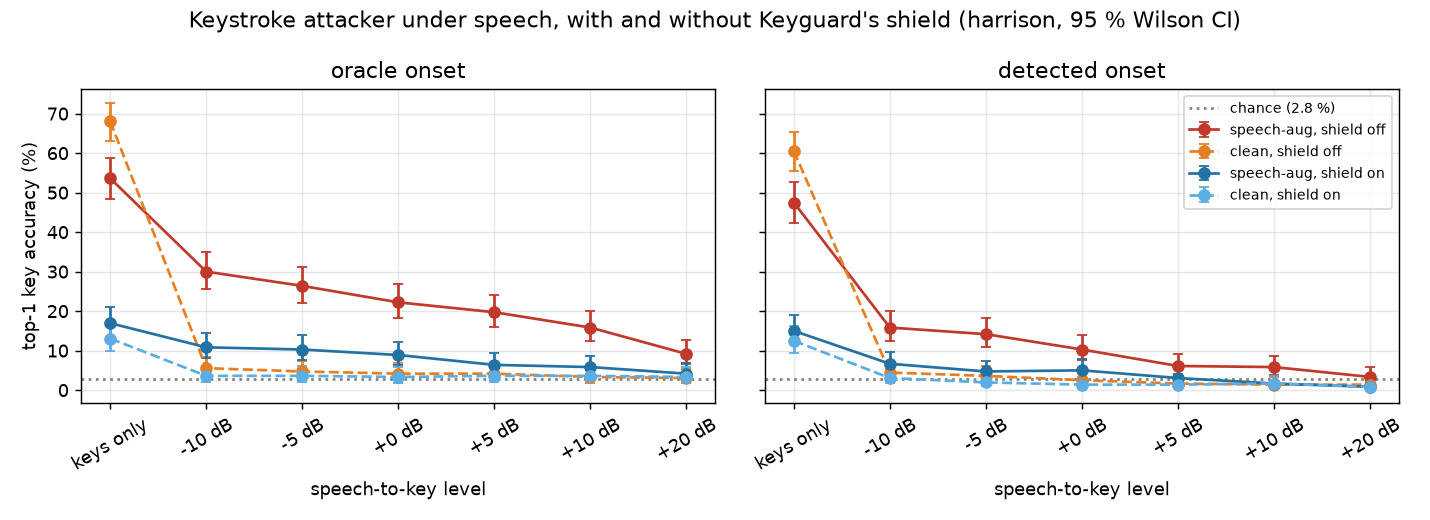
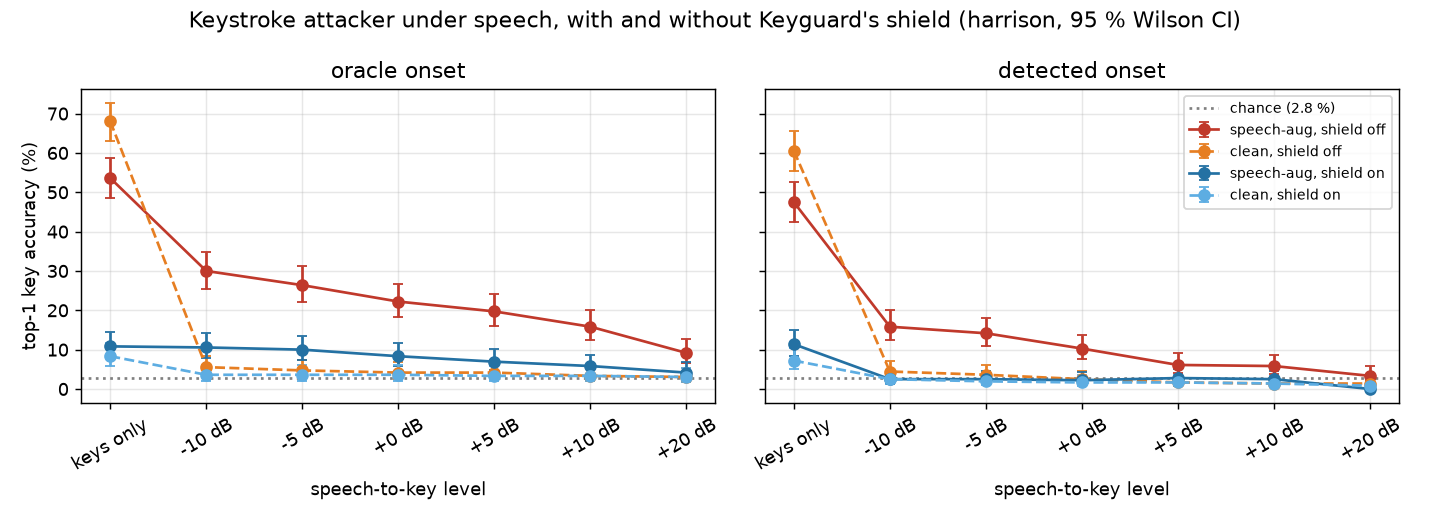
WP7: headline shield = ShieldConfig(key_frames=26), as CallGuard ships it
- Re-run with the 26-frame shield (press + release); key_frames=14 kept as a
  secondary row at keys only and +10 dB. STOI/PESQ and the Hearsay check use 26.
- Report: 26 vs 14 comparison, selection-effect note, demo framing (oracle onsets),
  noise-floor issue for the teammate. Verdicts: C1 pass oracle / fail detected;
  C2 marginal fail (top-1 5.8 % oracle, STOI 0.897); C3 pass at 2/100.

diff --git a/experiments/attack_under_speech.py b/experiments/attack_under_speech.py
@@ -3,7 +3,7 @@
 Hearsay showed keystrokes don't break voice detection. This is the reverse direction: with someone talking over the
 typing, is keystroke leakage still a threat on a call? If yes, the shield has something real to defend against.
 
-Protocol (fixed seeds, CPU, 8 threads, ~11 min):
+Protocol (fixed seeds, CPU, 8 threads, ~12 min):
 - Keys: Keyguard's harrison bank (36 keys x 25 presses, one MacBook), per-key 60/40 split.
 - Attackers: KeyNet + torch_logmel trained here (provisional, in-domain). `clean` on clean presses; `speech-aug`
   on presses mixed with speech at +0..+20 dB (the adaptive attacker, which knows calls have speech).
@@ -11,7 +11,8 @@ Protocol (fixed seeds, CPU, 8 threads, ~11 min):
   attacker's training noise and the evaluation mixtures.
 - Each test press sits at a random spot in a 1.5 s speech excerpt at a speech-to-key power ratio (speech excerpt
   power over key-window power). Attack with the oracle onset and with Keyguard's onset detector on the mixture.
-- Shield: Keyguard DSP Shield with ShieldConfig() defaults (as CallGuard ships it) given the true onset (the victim has OS key events).
+- Shield: Keyguard DSP Shield with ShieldConfig(key_frames=26) (as CallGuard ships it; Keyguard's default 14 as a
+  secondary row at keys only / +10 dB) given the true onset (the victim has OS key events).
 - Hearsay check (pass criterion 3): full real clips (>= 3 s) from the test speakers, with test presses at +10 dB
   speech-to-key, scored clean / keys unshielded / keys shielded by CallGuard's Hearsay driver (r4ft, CPU).
 
@@ -51,7 +52,9 @@ EXCERPT = int(1.5 * SR)
 PRE = int(PRE_S * SR)
 MATCH_TOL = int(0.030 * SR)
 LEVELS = [None, -10, -5, 0, 5, 10, 20]  # speech-to-key dB; None = keys only
-SHIELD_CFG = ShieldConfig()  # Keyguard defaults, as callguard/drivers/keyguard_real.KeyguardShield runs it
+SHIELD_CFG = ShieldConfig(key_frames=26)  # as callguard/drivers/keyguard_real.KeyguardShield runs it (press + release)
+SHIELD_CFG_14 = ShieldConfig()  # Keyguard's default key_frames=14: secondary comparison only
+LEVELS_14 = {None, 10}
 DEMO_SPEAKERS = {"100", "2803"}  # voices in the demo scenario: the attacker must never have heard them
 N_SPEECH = 200
 EPOCHS = 40
@@ -199,19 +202,24 @@ def main():
     rows, qual = [], []
     for level in LEVELS:
         lvl = "keys only" if level is None else f"{level:+d} dB"
-        W = {(s, o): np.zeros_like(Xte) for s in ("off", "on") for o in ("oracle", "detected")}
-        hit = {(s, "detected"): np.zeros(len(Xte), bool) for s in ("off", "on")}
+        shields = ("off", "on", "on14") if level in LEVELS_14 else ("off", "on")
+        W = {(s, o): np.zeros_like(Xte) for s in shields for o in ("oracle", "detected")}
+        hit = {(s, "detected"): np.zeros(len(Xte), bool) for s in shields}
         for i, (k, sp, pos) in enumerate(zip(Xte, sps, poss)):
             onset = pos + PRE
             raw = mix(k, sp, level, pos)
             shielded = Shield(SHIELD_CFG, seed=SEED + i).apply(raw, onsets=np.array([onset]))
-            for s, a in (("off", raw), ("on", shielded)):
+            audio = {"off": raw, "on": shielded}
+            if "on14" in shields:
+                audio["on14"] = Shield(SHIELD_CFG_14, seed=SEED + i).apply(raw, onsets=np.array([onset]))
+            for s, a in audio.items():
                 W[s, "oracle"][i] = cut(a, onset)
                 d = detect(a, onset)
                 if d is not None:
                     W[s, "detected"][i] = cut(a, d); hit[s, "detected"][i] = True
             if level is not None:
-                qual.append((lvl, *quality(raw, shielded), *quality(sp, raw), *quality(sp, shielded)))
+                q14 = quality(raw, audio["on14"]) if "on14" in audio else (np.nan, np.nan)
+                qual.append((lvl, *quality(raw, shielded), *quality(sp, raw), *quality(sp, shielded), *q14))
         for name, net in nets.items():
             for (s, o), w in W.items():
                 r = top_ranks(net, w, yte)
@@ -225,7 +233,8 @@ def main():
 
     res = pd.DataFrame(rows)
     q = pd.DataFrame(qual, columns=["level", "stoi_shield_vs_mix", "pesq_shield_vs_mix", "stoi_mix_vs_speech",
-                                    "pesq_mix_vs_speech", "stoi_shield_vs_speech", "pesq_shield_vs_speech"])
+                                    "pesq_mix_vs_speech", "stoi_shield_vs_speech", "pesq_shield_vs_speech",
+                                    "stoi_shield14_vs_mix", "pesq_shield14_vs_mix"])
     q = q.groupby("level", sort=False).mean().reset_index()
     res = res.merge(q, on="level", how="left")
     out = REPO / "reports"

diff --git a/reports/attack_under_speech.md b/reports/attack_under_speech.md
@@ -21,92 +21,115 @@ does Keyguard's shield bring it back toward chance while the speech stays intact
   excerpt. **Level = speech-to-key power ratio**: mean power of the 1.5 s speech excerpt over mean power of the 0.3 s
   key window. The same excerpt and position are reused at every level (paired design).
 - **Onsets:** *oracle* (the true onset) and *detected* (Keyguard's `segment.onsets` on the mixture, nearest peak
-  within 30 ms; a miss counts as a wrong guess). A real attacker only has *detected*.
-- **Shield:** Keyguard DSP `Shield` with **`ShieldConfig()` defaults** (strength 1.0, randomize 1.0, decoys 0,
-  key_frames 14), exactly as `callguard/drivers/keyguard_real.KeyguardShield` runs it, given the **true** onsets (the
-  victim has OS key events). All headline numbers use this config. The attackers are not retrained on shielded audio.
+  within 30 ms; a miss counts as a wrong guess). A real attacker only has *detected*. The CallGuard dashboard attacks
+  at OS key timestamps (oracle onsets = worst-case eavesdropper); with keys only, detected onsets are nearly as good
+  (47.5 vs 53.6 % top-1), so oracle is a fair upper bound for quiet typing.
+- **Shield (headline):** Keyguard DSP `Shield` with **`ShieldConfig(key_frames=26)`** (208 ms, press + release;
+  everything else default: strength 1.0, randomize 1.0, decoys 0), as `callguard/drivers/keyguard_real.KeyguardShield`
+  runs it, given the **true** onsets (the victim has OS key events). Keyguard's default `key_frames=14` (112 ms) stops
+  before the key release, which the attacker's 300 ms window hears. 26 was chosen by the integrator on these same 360
+  test presses (keys only, noise 41 dB under the key: 14 -> 22.2 % top-1, 20 -> 10.8, 26 -> 7.5, 34 -> 5.8), a mild
+  selection effect that the teammate's held-out data should confirm. `key_frames=14` is kept as a secondary row at
+  keys only and +10 dB. The attackers are not retrained against either shield.
 - **Metrics:** top-1 / top-3 over n = 360 test presses, 95 % Wilson CIs, chance 1/36 = 2.8 %. Speech quality: STOI
   and wideband PESQ on each 1.5 s mixture, averaged.
 - **Hearsay check (criterion 3):** 100 full real clips (>= 3 s) from the *test* speakers; 5 test presses per clip
-  (one per fifth of the clip) at +10 dB speech-to-key (same level definition, whole clip power); shield with true
-  onsets; scored by CallGuard's `HearsayDriver(mode="r4ft", threads=8, device="cpu")`; flagged = `p_synthetic > 0.5`.
-- Seed 0 throughout. Runtime 10.6 min on 8 CPU threads (attackers 3.2 min, attack grid 3 min, Hearsay 4.4 min).
-  Full per-cell data: `attack_under_speech.csv`, `attack_under_speech_hearsay.csv`.
+  (one per fifth of the clip) at +10 dB speech-to-key (same level definition, whole clip power); 26-frame shield with
+  true onsets; scored by CallGuard's `HearsayDriver(mode="r4ft", threads=8, device="cpu")`; flagged =
+  `p_synthetic > 0.5`.
+- Seed 0 throughout. Runtime 12.3 min on 8 CPU threads (attackers 3.2 min, attack grid 4.4 min, Hearsay 4.6 min).
+  Full per-cell data: `attack_under_speech.csv` (`shield` = off / on (26 frames) / on14), `attack_under_speech_hearsay.csv`.
 
 ## Results
 
 ![top-1 vs speech level](figures/attack_under_speech.png)
 
-**Top-1 (%) [95 % CI], adaptive `speech-aug` attacker.** Shield = Keyguard defaults with true onsets.
+**Top-1 (%) [95 % CI], adaptive `speech-aug` attacker.** Shield on = `key_frames=26`, true onsets.
 
 | level | oracle, shield off | oracle, shield on | detected, shield off | detected, shield on | onsets found (off / on) |
 |---|---|---|---|---|---|
-| keys only | 53.6 [48.5, 58.7] | 16.9 [13.4, 21.2] | 47.5 [42.4, 52.7] | 15.0 [11.7, 19.1] | 99 % / 99 % |
-| −10 dB | 30.0 [25.5, 34.9] | 10.8 [8.0, 14.5] | 15.8 [12.4, 20.0] | 6.7 [4.5, 9.7] | 76 % / 61 % |
-| −5 dB | 26.4 [22.1, 31.2] | 10.3 [7.6, 13.9] | 14.2 [10.9, 18.2] | 4.7 [3.0, 7.4] | 69 % / 54 % |
-| 0 dB | 22.2 [18.2, 26.8] | 8.9 [6.4, 12.3] | 10.3 [7.6, 13.9] | 5.0 [3.2, 7.8] | 61 % / 46 % |
-| +5 dB | 19.7 [15.9, 24.1] | 6.4 [4.3, 9.4] | 6.1 [4.1, 9.1] | 3.1 [1.7, 5.4] | 55 % / 41 % |
-| **+10 dB** | **15.8 [12.4, 20.0]** | **5.8 [3.9, 8.8]** | **5.8 [3.9, 8.8]** | **1.7 [0.8, 3.6]** | 49 % / 36 % |
-| +20 dB | 9.2 [6.6, 12.6] | 4.2 [2.5, 6.8] | 3.3 [1.9, 5.7] | 0.8 [0.3, 2.4] | 43 % / 32 % |
+| keys only | 53.6 [48.4, 58.7] | 10.8 [8.0, 14.5] | 47.5 [42.4, 52.7] | 11.4 [8.5, 15.1] | 99 % / 99 % |
+| −10 dB | 30.0 [25.5, 34.9] | 10.6 [7.8, 14.2] | 15.8 [12.4, 20.0] | 2.5 [1.3, 4.7] | 76 % / 59 % |
+| −5 dB | 26.4 [22.1, 31.2] | 10.0 [7.3, 13.5] | 14.2 [10.9, 18.1] | 2.5 [1.3, 4.7] | 69 % / 53 % |
+| 0 dB | 22.2 [18.2, 26.8] | 8.3 [5.9, 11.7] | 10.3 [7.5, 13.9] | 2.2 [1.1, 4.3] | 61 % / 46 % |
+| +5 dB | 19.7 [15.9, 24.1] | 6.9 [4.8, 10.1] | 6.1 [4.1, 9.1] | 2.8 [1.5, 5.0] | 55 % / 43 % |
+| **+10 dB** | **15.8 [12.4, 20.0]** | **5.8 [3.9, 8.8]** | **5.8 [3.9, 8.8]** | **2.5 [1.3, 4.7]** | 49 % / 40 % |
+| +20 dB | 9.2 [6.6, 12.6] | 4.2 [2.5, 6.8] | 3.3 [1.9, 5.7] | 0.0 [0.0, 1.1] | 43 % / 34 % |
 
-Top-3 for the same attacker at +10 dB: oracle 34.4 % [29.7, 39.5] off / 19.7 % [15.9, 24.1] on; detected 13.1 %
-[10.0, 16.9] off / 5.3 % [3.4, 8.1] on (chance 8.3 %).
+Top-3 at +10 dB: oracle 34.4 % [29.7, 39.5] off / 19.7 % [15.9, 24.1] on; detected 13.1 % [10.0, 16.9] off /
+6.1 % [4.1, 9.1] on (chance 8.3 %).
 
-**Top-1 (%), `clean` attacker (trained without speech):** keys only 68.1 [63.1, 72.7] oracle / 60.6 detected. With
-any speech it collapses to near chance: +10 dB oracle 3.3 [1.9, 5.7], detected 1.4 [0.6, 3.2]; shield on 3.6 / 1.7.
-A naive attacker is not the threat under speech; an adaptive one is.
+**Shield length, 26 vs 14 frames (speech-aug attacker, top-1 %):**
 
-**Speech quality of the shielded mixture** (mean over 360 excerpts):
+| | keys only, oracle | keys only, detected | +10 dB, oracle | +10 dB, detected | STOI shield vs mix, +10 dB |
+|---|---|---|---|---|---|
+| no shield | 53.6 | 47.5 | 15.8 | 5.8 | |
+| key_frames 14 (Keyguard default) | 16.9 [13.4, 21.2] | 15.0 [11.7, 19.1] | 5.8 [3.9, 8.8] | 1.7 [0.8, 3.6] | 0.934 |
+| **key_frames 26 (CallGuard)** | 10.8 [8.0, 14.5] | 11.4 [8.5, 15.1] | 5.8 [3.9, 8.8] | 2.5 [1.3, 4.7] | **0.897** |
+
+The longer region helps on quiet typing (16.9 to 10.8 %) but not at +10 dB, where both leave 5.8 %; it costs STOI
+(0.934 to 0.897).
+
+**`clean` attacker (trained without speech):** keys only 68.1 % oracle / 60.6 % detected, shield on 8.3 %. With any
+speech it collapses to near chance (+10 dB: 3.3 % oracle, 1.4 % detected). A naive attacker is not the threat under
+speech; an adaptive one is.
+
+**Speech quality with the 26-frame shield** (mean over 360 excerpts):
 
 | level | STOI shield vs mix | PESQ shield vs mix | STOI mix vs clean speech | STOI shield vs clean speech |
 |---|---|---|---|---|
-| −10 dB | 0.900 | 2.15 | 0.952 | 0.930 |
-| 0 dB | 0.923 | 2.83 | 0.979 | 0.937 |
-| +5 dB | 0.930 | 3.09 | 0.987 | 0.939 |
-| **+10 dB** | **0.934** | **3.33** | 0.992 | 0.940 |
-| +20 dB | 0.939 | 3.57 | 0.997 | 0.941 |
+| −10 dB | 0.872 | 1.94 | 0.952 | 0.892 |
+| 0 dB | 0.889 | 2.51 | 0.979 | 0.898 |
+| +5 dB | 0.894 | 2.67 | 0.987 | 0.900 |
+| **+10 dB** | **0.897** | **2.86** | 0.992 | 0.900 |
+| +20 dB | 0.900 | 3.06 | 0.997 | 0.902 |
 
-**Hearsay on real voices, +10 dB keys (n = 100 clips):**
+Note these excerpts are 1.5 s with one key each (one keystroke per 1.5 s of speech), so the shielded fraction is high;
+STOI over longer speech with sparser typing will be higher.
+
+**Hearsay on real voices, +10 dB keys, 26-frame shield (n = 100 clips):**
 
 | condition | flagged as synthetic | median p_synthetic | max p_synthetic |
 |---|---|---|---|
 | clean speech | 0 / 100 = 0.0 % [0.0, 3.7] | 0.14 | 0.32 |
 | keys, shield off | 0 / 100 = 0.0 % [0.0, 3.7] | 0.14 | 0.37 |
-| keys, shield on | 1 / 100 = 1.0 % [0.2, 5.5] | 0.17 | 0.72 |
+| keys, shield on | 2 / 100 = 2.0 % [0.6, 7.0] | 0.18 | 0.59 |
 
-**Secondary shield config** (the earlier "dashboard" settings `decoys=6, key_frames=6`; from a preliminary run that
-still included speakers 100/2803, so indicative only): +10 dB speech-aug, oracle, shield on 9.2 % [6.6, 12.6],
-detected 2.8 %; STOI shield vs mix 0.969. It keeps speech a bit cleaner but protects clearly less than the defaults.
+(With the 14-frame shield in the previous run: 1 / 100, median 0.17.)
 
-## Verdict on plan 04's pass criteria
+## Verdict on plan 04's pass criteria (headline shield: key_frames 26)
 
 1. **Adaptive attacker at +10 dB far above chance (CI lower bound > 3x chance = 8.3 %):**
    - **PASS with oracle onsets:** 15.8 % [12.4, 20.0], 5.7x chance.
-   - **FAIL with detected onsets** (what a real attacker has): 5.8 % [3.9, 8.8]; above chance, but the lower bound
-     is below 8.3 %. The bottleneck is segmentation: Keyguard's onset detector finds only 49 % of presses under
-     +10 dB speech. The per-press classifier still works on the presses it finds.
-   - So the keystroke threat under speech is real in principle, but with this provisional attacker and Keyguard's
-     energy onset detector it is weak at realistic call levels. On stage, say "an adaptive attacker reads 16 % of
-     keys (6x chance) at +10 dB when it can locate the keystrokes", not "reads your password".
-2. **Shield on: top-1 <= 2x chance (5.6 %) and STOI >= 0.9:**
-   - STOI: **PASS**, 0.934 at +10 dB (>= 0.90 at every level; PESQ 3.3).
-   - Top-1 with detected onsets: **PASS**, 1.7 % [0.8, 3.6].
-   - Top-1 with oracle onsets: **FAIL (marginal)**, 5.8 % [3.9, 8.8] against a 5.6 % bar. The shield cuts the
-     adaptive attacker by 2.7x but does not bring it to 2x chance when the attacker locates the key. With keys only it
-     leaves 16.9 % (6x chance).
-   - Overall: **FAIL** on the strict oracle reading, PASS for the realistic (detected-onset) attacker.
-3. **Hearsay flags <= 2 % of real voices on the shielded speech:** **PASS**, 1 / 100 = 1.0 % [0.2, 5.5] (clean and
-   unshielded: 0 %). The Wilson upper bound (5.5 %) is above 2 %, so n = 100 cannot prove <= 2 %; it is consistent
-   with it. The shield raises median p_synthetic slightly (0.14 to 0.17).
+   - **FAIL with detected onsets** (what a real eavesdropper has): 5.8 % [3.9, 8.8]; above chance, but the lower
+     bound is below 8.3 %. The bottleneck is segmentation: Keyguard's onset detector finds 49 % of presses under
+     +10 dB speech.
+   - On stage: "an adaptive attacker reads 16 % of keys (6x chance) at +10 dB when it knows when you type, and about
+     half the keys of quiet typing", not "it reads your password".
+2. **Shield on: top-1 <= 2x chance (5.6 %) and STOI >= 0.9: FAIL (marginal on both).**
+   - Top-1 with oracle onsets: 5.8 % [3.9, 8.8] against a 5.6 % bar (the 14-frame shield gives the same 5.8 %).
+     With detected onsets: 2.5 % [1.3, 4.7], PASS.
+   - STOI at +10 dB: 0.897 (shield vs mix), 0.900 (shield vs clean speech); just under / at the 0.9 bar. PESQ 2.86.
+     The 14-frame shield had 0.934, so the longer region is what pushes it under.
+3. **Hearsay flags <= 2 % of real voices on the shielded speech: PASS (at the boundary):** 2 / 100 = 2.0 %
+   [0.6, 7.0]. Clean and unshielded: 0 %. n = 100 cannot show the true rate is <= 2 %; the shield moves median
+   p_synthetic 0.14 to 0.18.
 
 ## Issues for the teammate (Keyguard)
-- **Shield vs the adaptive attacker (criterion 2, oracle):** with defaults and true onsets, a speech-augmented KeyNet
-  keeps 5.8 % top-1 at +10 dB and 16.9 % on keys alone. The shield needs to be stronger against an attacker that
-  knows where the key is, e.g. the adversarial perturbation stage trained against the speech-aug attacker, or wider
-  inpainting at the onset transient. Target: <= 5.6 % top-1 at +10 dB with STOI >= 0.9.
+- **Shield vs the adaptive attacker (criterion 2):** with true onsets, a speech-augmented KeyNet keeps 5.8 % top-1 at
+  +10 dB with either key region (14 or 26 frames), and 10.8 % on quiet typing with 26 frames. Lengthening the region
+  trades STOI (0.934 to 0.897) for gains only on quiet typing. Needed: a shield that removes more key information per
+  frame rather than more frames, e.g. the adversarial perturbation stage trained against the speech-aug attacker.
+  Target: <= 5.6 % top-1 at +10 dB with STOI >= 0.9.
+- **Key-region length:** the default `key_frames=14` misses the key release (100-150 ms after onset). CallGuard ships
+  26, chosen on these same test presses; please confirm on held-out data.
+- **Noise floor:** the provisional attackers were trained on near-silent harrison presses. With white noise 30 dB
+  under the key-window power, the clean attacker drops from 70 % to 1.7 % top-1 and the speech-aug one from 61 % to
+  46 % (40 dB under: clean 33 %, speech-aug 59 %) (integrator's measurement). Noise robustness is an open item for
+  the teammate's attacker.
 - **Attacker segmentation under speech (criterion 1, detected):** `segment.onsets` finds 49 % of presses at +10 dB
   and 43 % at +20 dB, which caps the realistic attack. If the teammate's newer attacker (e.g. the overlap attacker on
-  continuous typing) does not rely on energy onsets, re-run this script with it: the threat case likely gets stronger.
+  continuous typing) does not rely on energy onsets, re-run this script with it.
 - Re-run this script when the final attacker and shield weights ship (plan 05).
 
 ## Limits
@@ -116,5 +139,6 @@ detected 2.8 %; STOI shield vs mix 0.969. It keeps speech a bit cleaner but prot
 - **Level definition:** speech power over key-window power; the speech excerpt includes pauses, so the voice during
   words is louder than the nominal level. Other papers define SNR differently.
 - The attacker is provisional and not retrained on shielded audio; a shield-aware attacker could do better.
+- `key_frames=26` was selected on the test presses (mild selection effect).
 - No language model: no lattice / dictionary decoding of whole passwords, which would raise per-key accuracy.
 - Hearsay check: 100 clips, one seed, r4ft mode only.

diff --git a/experiments/README.md b/experiments/README.md
@@ -9,7 +9,7 @@ repos read-only (`KEYGUARD_ROOT`, `HEARSAY_ROOT`, defaulting to the sibling chec
 
 ```
 cd CallGuard
-.venv/Scripts/python experiments/attack_under_speech.py     # ~11 min on 8 CPU threads: ~6 attack, ~4.5 Hearsay check
+.venv/Scripts/python experiments/attack_under_speech.py     # ~12 min on 8 CPU threads: ~7.5 attack, ~4.5 Hearsay check
 ```
 
 Needs: Keyguard's `data/pool/harrison.npz`, Hearsay's `data/processed/manifest.parquet` and its processed
